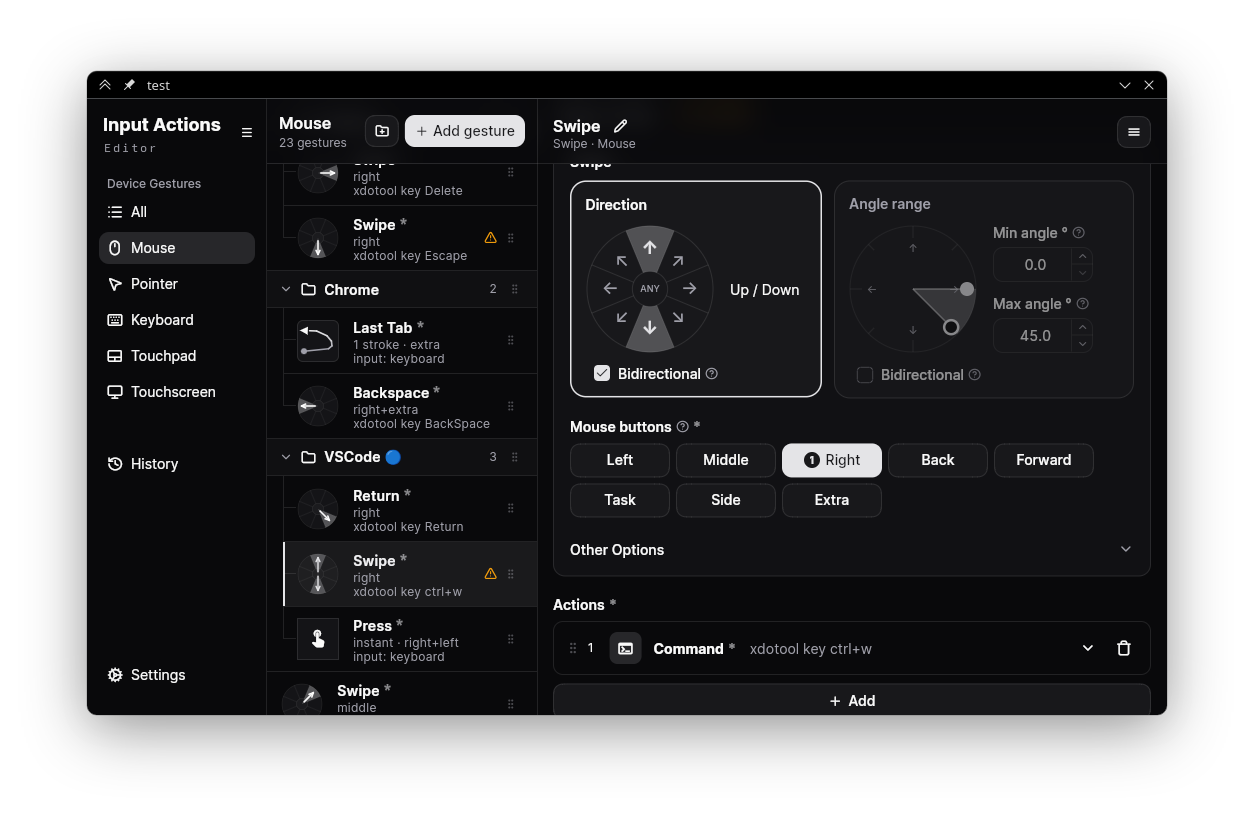
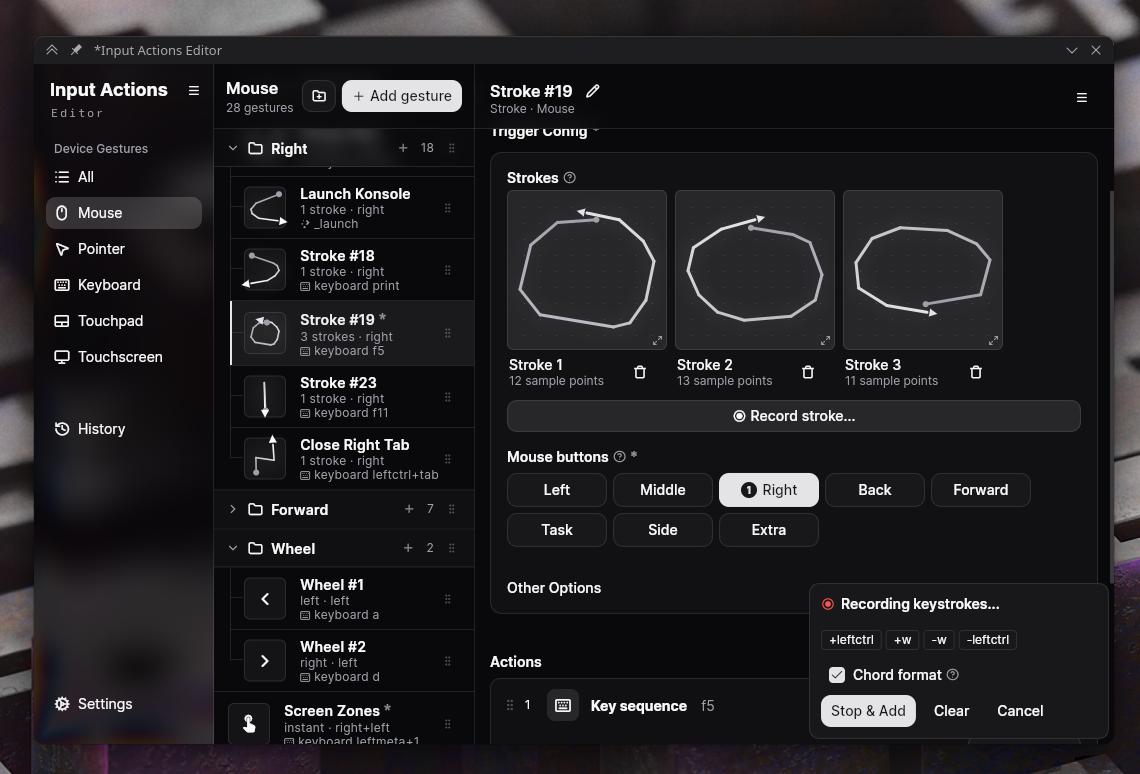
update README

diff --git a/README.md b/README.md
@@ -1,20 +1,38 @@
 <h1 align="center">Input Actions Editor</h1>
 
-A GUI config editor for [Input Actions](https://github.com/taj-ny/InputActions).
+<p align="center">A desktop GUI for configuring <a href="https://github.com/taj-ny/InputActions">Input Actions</a>.</p>
 
 ![screenshot](screenshot.png)
 
 
 ## Features
 
-- Schema-aware editing. Each trigger and action shows only the fields that apply to it.
 - Stroke recording and path visualization, recorded from the daemon over D-Bus.
 - Plasma shortcut picker.
-- Action types: run a command, send input, trigger a Plasma shortcut, sleep, or a raw passthrough.
 - Multiple actions per gesture, run in order.
 - Grouping and reordering for long gesture lists.
 - Nested conditions on both triggers and actions.
 - Conflict detection while editing.
+- Supported action types configuration: 
+    - Run a command 
+    - Send input (Keyboard/Mouse) 
+    - Trigger a Plasma shortcut 
+    - Sleep 
+    - Activate window
+    - Replace text
+
+## Installation
+
+### Fedora
+
+Packages are published on [Copr](https://copr.fedorainfracloud.org/coprs/luwxs/input-actions-editor/):
+
+```sh
+sudo dnf copr enable luwxs/input-actions-editor
+sudo dnf install input-actions-editor
+```
+
+On other distributions, build from source as described below or download the binaries from Github releases.
 
 ## Building
 
@@ -23,7 +41,6 @@ You'll need the Flutter SDK installed and set up for Linux desktop builds.
 ```sh
 flutter pub get
 dart run build_runner build --delete-conflicting-outputs
-flutter run -d linux
 ```
 
 Release build (output lands in `build/linux/x64/release/bundle/`):
